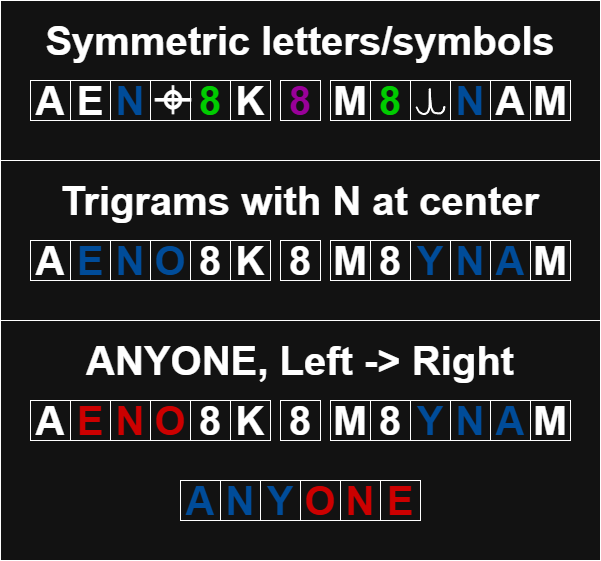
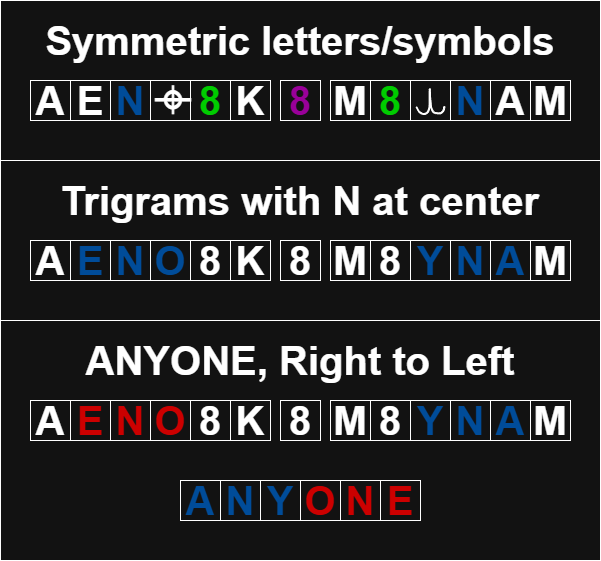
update readme

Changed region(s): [[0.4193, 0.6061, 0.8686, 0.697], [0.1498, 0.6061, 0.3894, 0.6667]]

diff --git a/readme.md b/readme.md
@@ -1,10 +1,11 @@
-
 # Zodiacs Z13 letter, April 20, 1970.
 
-![full_letter](media/cipher/Z13_cipher_full-resize.png)
 ![cipher](media/cipher/Z13_cipher_cutout_adjacent_rows_rz.png)
 
-AEN⌖⑧K⑧M⑧۸NAM
+Cipher transcription:
+```text
+A E N ⌖ ⑧ K ⑧ M ⑧ ۸ N A M
+```
 
 ## **Foreword**
 
@@ -27,9 +28,13 @@ Now i put more effort in, to avoid such problem but the idea that crosshair and 
 
 ![Z13](media/Only_Z13_color.png)
 
-AEN⌖⑧K⑧M⑧۸NAM -> \
-AEN⌖⑧K⑧M⑧𝚼NAM -> \
-AENO⑧K⑧M⑧YNAM
+```text
+A E N [⌖] ⑧ K ⑧ M ⑧ [۸] N A M 
+       ↓  flipping 𝚼  ↓ 
+A E N [⌖] ⑧ K ⑧ M ⑧ [𝚼] N A M
+       ↓              ↓ 
+A E N [O] ⑧ K ⑧ M ⑧ [Y] N A M 
+```
 
 ## **How I got here**
 
@@ -46,10 +51,13 @@ Turned around, they give "A ONE K - MANY M", or intepreting this it would be "A 
 
 ![Price_money](media/Z13_MANY_M.png)
 
-AEN⌖⑧K⑧M⑧۸NAM -> \
-AENO⑧K⑧M⑧YNAM -> \
-AONE⑧K⑧MANY⑧M -> \
-A-ONE_K_MANY_M
+```text
+A [E N O] ⑧ K ⑧ [M ⑧ Y N A M]
+     ↓                 ↓ 
+A [O N E] ⑧ K ⑧ [M A N Y ⑧ M]
+
+[ A ONE K ] [ MANY M ]
+```
 
 ## **What about the name?** 
 
@@ -70,67 +78,34 @@ You get "ANYONE", very interestingly, if you take the cipher and turn it 90° cl
 |-|first letter| Sentence                 |
 |-|------------|--------------------------|
 |3|M|My Name is--                         |
-|2|A|AEN⌖⑧K⑧M⑧۸NAM                      |
+|2|A|A E N ⌖ ⑧ K ⑧ M ⑧ ۸ N A M          |
 |1|I|I am mildly cerous how much money... |
 
 
+### **Coincidences?**
 
+There is even something wilder. The only times the Zodiac asked for any reward money on him it was in the Z13 letter and the Punch-hole card. 
+The Punch-hole card also has 13 punch-holes 10 in one row and 3 in the another row. 
+If you fill the holes with the cipher it doesn't matter from which direction you the holes fill the circled 8s get fillter to the 3 hole row. 
+Leaving all letters in the 10 hole row, in the Z13 letter he claimed to have killed 10 people. 
 
-### **The punch-hole card**
+![punch-hole](media/visual_aid/8fillter.png)
 
-On the punch-hole card he also asks about the reward money ("What is the price tag now?"), and the card has 13 holes it isn't unlikely that they are connected. 
-If you fill the holes with the cipher, it doesn't matter which way you hold the card or from which end you fill the holes, because the holes are staggered, the circled 8s always end up in a different row. So the card seems to indicate that the circled 8s should be filtered out. They may also have a meaning of their own, but it seems they're primary there as spacers for K and M. Possibly to make us understand that they are special, in this case as large number abbreviations.
+This makes the symmetry even stronger now N and with it the Trigrams sit exactly in the middle of both halves.
 
-![img4](media/8fillter.png)
-
-
-### **The N three-letter groups**
-
-With the circled 8s treated as nulls/spacers, the cipher is 10 symbols long and would also fit with his claimed killcount of "ten" in the Z13 letter.
-It has two equal halves of length 5. 
-Each half has an N in the middle, and every N is the middle of a three-letter group: ENO in the first half and YNA in the second. Those are ONE and ANY in reverse.
-
-![img5](media/Z13_CENTER_N.png)
-
-*seperated only for visual clarity
-
-
-## **Two readings**
-
-### First:
-Read the two groups backwards, from right to left, and you get ANY, then ONE: "anyone". 
-That could be the answer to "My name is —". 
-
-![img6](media/Z13_anyone.png)
-
-Also cool is, if you turn the letter 90° clockwise, the first letter of the \
-previous sentence: "M" \
-cipher code:      "A" \
-and next sentence: "I"  \
-form "I AM", together it would make "I AM ANYONE".
-
-![imgIAM](media/IAM-ANYONE.png)
-
-This might be coincidence.
-I don't know if zodiac read homers odyssee, but what is interesting is that this has also a bit of a parallel with when odeysseus tricked the cyclops by calling himself "nobody".
-```QUOTE
-"Cyclops, you asked my noble name, and I will tell it; but do you give the stranger's gift, just as you promised. 
-My name is Nobody.
-Nobody I am called by mother, father, and by all my comrades."
+```text
+A [E N O] K     M [Y N A] M
+A [O N E] K     M [A N Y] M
 ```
 
-### Second:
-Now reverse each trigram so they read left to right, and the whole cipher becomes readable: "A ONE K MANY M", one thousand, many million. You have two sentences if every half is it's own. That adds to his question about how much money is on his head.
+![anyone](media/visual_aid/Z13_anyone.png)
 
-![img7](media/Z13_KM.png)
+Further more now you just need to mirror the trigrams to get "A ONE K - MANY MILLION".
 
-So you get both an answer to "my name is---" and an addition to the reward question, by only reversing 2 trigrams.
+![1KmM](media/visual_aid/Z13_KM.png)
 
-### **The $1,000**
-
-What makes it more interesting is that the "A one thousand" doesn't seem arbitrary. 
-I only found this later: the Yellow Cab Company had put up a $1,000 reward in January 1970 for Zodiac.
-3 months before the Z13 letter.
+What i hadn't mentioned above, because i only found it out later was that the Z13 letter was supposedly Zodiacs response to a reward that was put out for him.
+$1000 dollar, is this coincidence or intentional? 
 
 ```QUOTE
 On January 29th 1970, the Yellow Cab Company put up a thousand dollar reward for any information leading to the arrest of the Zodiac Killer.
@@ -140,6 +115,8 @@ This news was likely what prompted the Zodiac Killer to open this communication 
 source: https://www.zodiacciphers.com/my-name-is-cipher.html
 ```
 
-The Questions "A one Thousand. many Million?" would show that he thinks that $1,000 is far to low, and it hurt his ego, making it also a taunt.
+It may explain why he asked again in the Punch-hole card for the reward money even with "PRICE" and bold that time. 
+First of all it is a hint to the solution for the Z13, but also it makes it pretty clear that he didn't like how little reward money they only put out.
+So the "A one Thousand. Many Million?" is also a taunt.
 
-![reward](media/900x0_Resize.jpg)
+![pricetag](media/visual_aid/price_tag.png)
